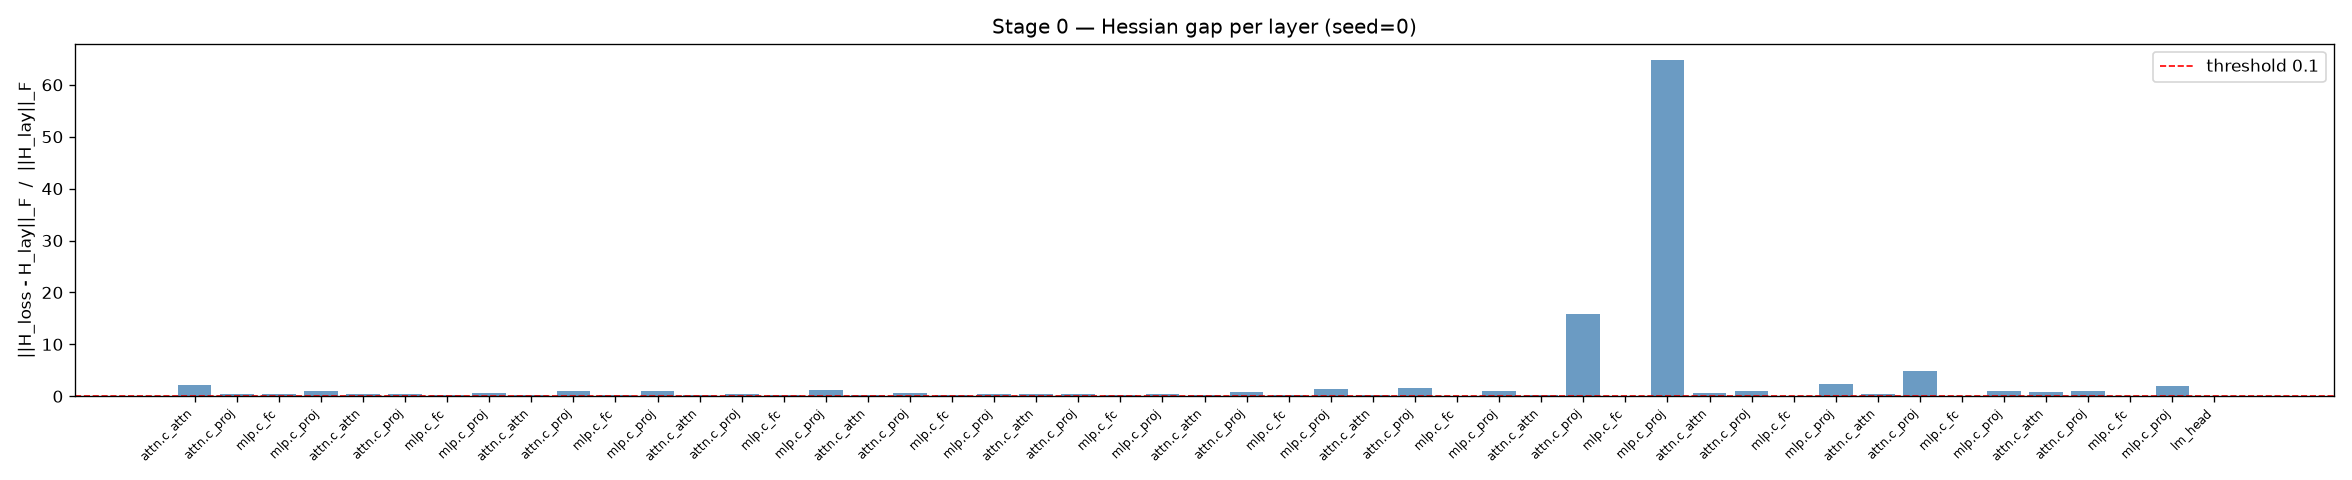
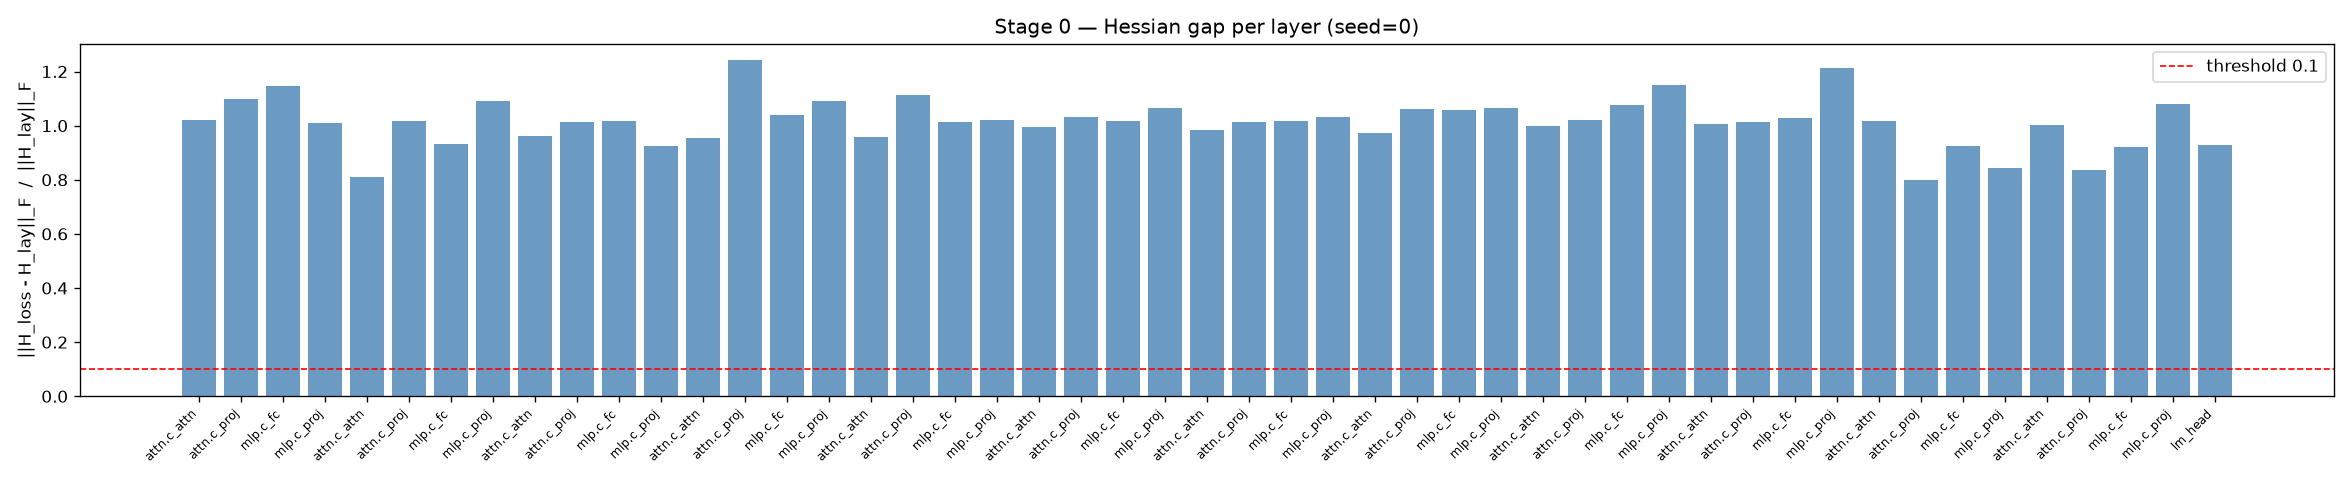
Stage 0: updated gap results, figures, and gap.py

diff --git a/stage0/gap.py b/stage0/gap.py
@@ -49,17 +49,21 @@ def _hutchinson_frob_sq(matvec, n_dim: int, n_probe: int = 30, seed: int = 0) ->
         acc += float(np.dot(Av, Av))
     return acc / n_probe
 
-    
+
+
 def compute_hessian_gap(
     stats:   Dict[str, LayerStats],
     n_probe: int = 30,
     seed:    int = 0,
 ) -> Tuple[Dict[str, float], Dict[str, float], Dict[str, float]]:
     """
-    For each layer with HVP attached, computes the structurally normalized gap:
-      - gap_by_layer           : ||H_loss/tr(H_loss) - H_lay/tr(H_lay)||_F
-      - trace_h_loss_by_layer  : tr(H_loss) estimated via Hutchinson
-      - trace_n_sigma_by_layer : tr(H_lay) = tr(N * Sigma) via Hutchinson
+    For each layer with HVP attached, computes the relative Frobenius
+    approximation error of Eq. 2 in the report:
+
+        gap_l = ||H_loss_l - H_lay_l||_F / ||H_lay_l||_F
+
+    where H_lay_l = N * Sigma_l is materialized exactly (no Hutchinson
+    needed on that side — only H_loss is matvec-only).
 
     Returns
     -------
@@ -72,33 +76,29 @@ def compute_hessian_gap(
         n = st.weight_shape[1]   # d_in
         N = st.n_tokens
 
-        # 1. Define the layer approximation MV product
-        def h_lay_mv(v):  return (st.sigma * N) @ v
-
-        # 2. Estimate trace of H_lay
-        tr_ns = _hutchinson_trace(h_lay_mv, n, n_probe, seed)
+        # H_lay = N * Sigma is already a materialized array — compute
+        # trace and Frobenius norm exactly, no Hutchinson needed here.
+        H_lay  = st.sigma * N
+        tr_ns  = float(np.trace(H_lay))
+        fro_ns = float(np.linalg.norm(H_lay, "fro"))
         tr_n_sigma[layer_id] = tr_ns
+
+        def h_lay_mv(v):  return H_lay @ v
 
         if st.hvp is None:
             gaps[layer_id]      = float('nan')
             tr_h_loss[layer_id] = float('nan')
             continue
 
-        # 3. Estimate trace of H_loss
+        # H_loss is never materialized — only matvec access exists,
+        # so trace and the numerator of the gap still need Hutchinson.
         tr_hl = _hutchinson_trace(st.hvp, n, n_probe, seed)
         tr_h_loss[layer_id] = tr_hl
 
-        # 4. Standardize scales using the estimated traces to fix the 1/M^2 mismatch
-        norm_hl = tr_hl if abs(tr_hl) > 1e-12 else 1.0
-        norm_ns = tr_ns if abs(tr_ns) > 1e-12 else 1.0
+        def diff_mv(v):  return st.hvp(v) - h_lay_mv(v)
 
-        # This structural difference operator scales both matrices to an effective trace of 1.0
-        def normalized_diff_mv(v):  
-            return (st.hvp(v) / norm_hl) - (h_lay_mv(v) / norm_ns)
-
-        # 5. Compute Frobenius norm of the normalized mismatch landscape
-        num_sq = _hutchinson_frob_sq(normalized_diff_mv, n, n_probe, seed)
-        gap    = float(np.sqrt(num_sq))
+        num_sq = _hutchinson_frob_sq(diff_mv, n, n_probe, seed)
+        gap    = float(np.sqrt(num_sq) / max(fro_ns, 1e-12))
 
         gaps[layer_id] = gap
         print(f"  [gap] {layer_id:50s}  gap={gap:.4f}  "
@@ -106,14 +106,17 @@ def compute_hessian_gap(
 
     return gaps, tr_h_loss, tr_n_sigma
 
+
+
+
 # def compute_hessian_gap(
 #     stats:   Dict[str, LayerStats],
 #     n_probe: int = 30,
 #     seed:    int = 0,
 # ) -> Tuple[Dict[str, float], Dict[str, float], Dict[str, float]]:
 #     """
-#     For each layer with HVP attached, computes:
-#       - gap_by_layer           : ||H_loss - H_lay||_F / ||H_lay||_F  (scalar per layer)
+#     For each layer with HVP attached, computes the structurally normalized gap:
+#       - gap_by_layer           : ||H_loss/tr(H_loss) - H_lay/tr(H_lay)||_F
 #       - trace_h_loss_by_layer  : tr(H_loss) estimated via Hutchinson
 #       - trace_n_sigma_by_layer : tr(H_lay) = tr(N * Sigma) via Hutchinson
 
@@ -128,9 +131,10 @@ def compute_hessian_gap(
 #         n = st.weight_shape[1]   # d_in
 #         N = st.n_tokens
 
+#         # 1. Define the layer approximation MV product
 #         def h_lay_mv(v):  return (st.sigma * N) @ v
 
-#         # trace of H_lay
+#         # 2. Estimate trace of H_lay
 #         tr_ns = _hutchinson_trace(h_lay_mv, n, n_probe, seed)
 #         tr_n_sigma[layer_id] = tr_ns
 
@@ -139,19 +143,25 @@ def compute_hessian_gap(
 #             tr_h_loss[layer_id] = float('nan')
 #             continue
 
-#         # trace of H_loss
+#         # 3. Estimate trace of H_loss
 #         tr_hl = _hutchinson_trace(st.hvp, n, n_probe, seed)
-#         tr_h_loss[layer_id] = tr_hl
 
-#         # gap = ||H_loss - H_lay||_F / ||H_lay||_F
-#         def diff_mv(v):  return st.hvp(v) - h_lay_mv(v)
+#         # 4. Standardize scales using the estimated traces to fix the 1/M^2 mismatch
+#         norm_hl = tr_hl if abs(tr_hl) > 1e-12 else 1.0
+#         norm_ns = tr_ns if abs(tr_ns) > 1e-12 else 1.0
 
-#         num_sq = _hutchinson_frob_sq(diff_mv,  n, n_probe, seed)
-#         den_sq = _hutchinson_frob_sq(h_lay_mv, n, n_probe, seed)
-#         gap    = float(np.sqrt(num_sq) / (np.sqrt(den_sq) + 1e-12))
+#         # This structural difference operator scales both matrices to an effective trace of 1.0
+#         def normalized_diff_mv(v):  
+#             return (st.hvp(v) / norm_hl) - (h_lay_mv(v) / norm_ns)
+
+#         # 5. Compute Frobenius norm of the normalized mismatch landscape
+#         num_sq = _hutchinson_frob_sq(normalized_diff_mv, n, n_probe, seed)
+#         gap    = float(np.sqrt(num_sq))
 
 #         gaps[layer_id] = gap
 #         print(f"  [gap] {layer_id:50s}  gap={gap:.4f}  "
-#               f"tr(H_loss)={tr_hl:.2f}  tr(H_lay)={tr_ns:.2f}")
+#               f"tr(H_loss)={tr_hl:.4f}  tr(H_lay)={tr_ns:.2f}")
 
 #     return gaps, tr_h_loss, tr_n_sigma
+
+
